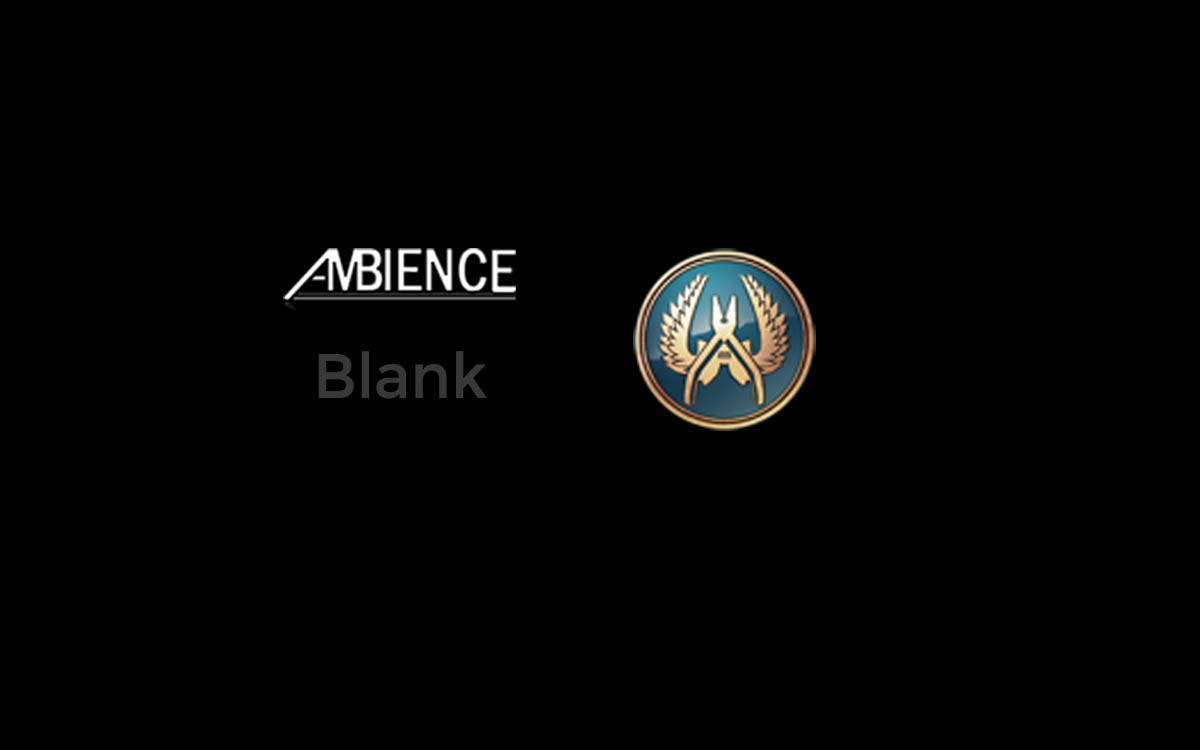
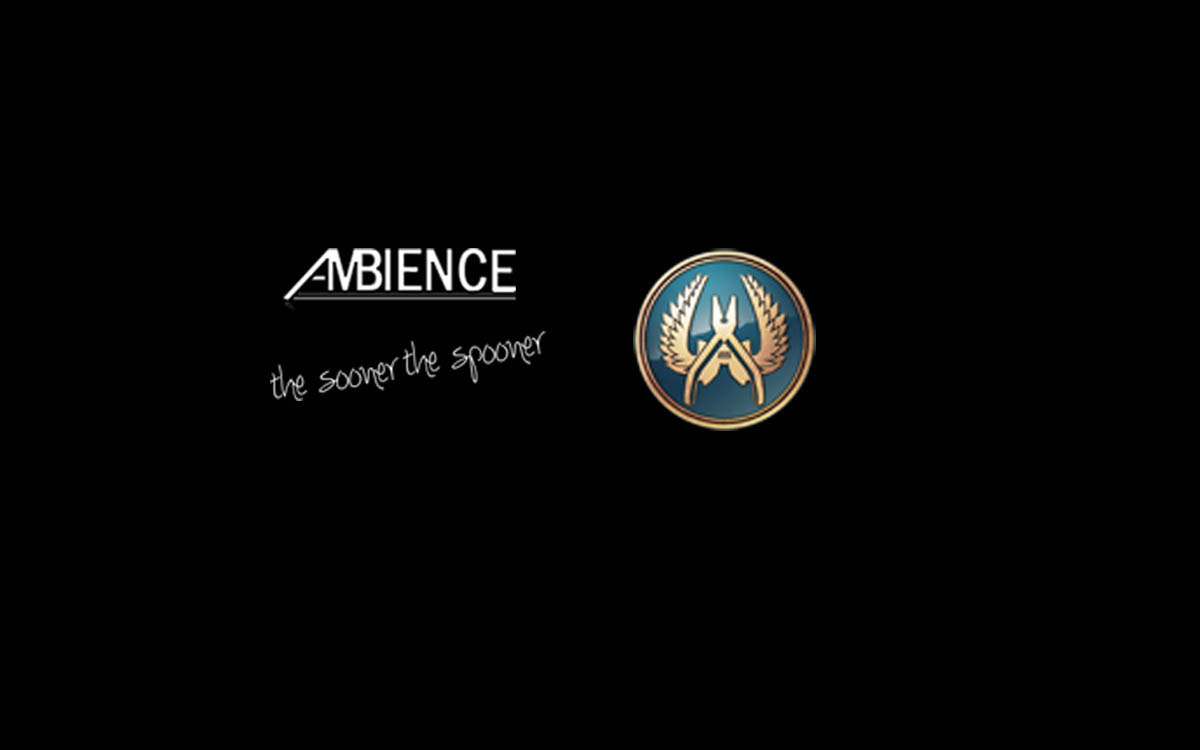
Last Player Added
The Spooner Added

Changed region(s): [[0.2158, 0.4293, 0.4625, 0.552]]

diff --git a/portfolio-Player5.html b/portfolio-Player5.html
@@ -92,7 +92,7 @@
 	    			<!-- Product Image & Available Colors -->
 	    			<div class="col-sm-6">
 	    				<div class="product-image-large">
-	    					<img src="img/portfolio/1.jpg" alt="Item Name">
+	    					<img src="img/portfolio/5.jpg" alt="Item Name">
 	    				</div>
 	    				<div class="colors">
 							<span class="color-white"></span>
@@ -105,13 +105,13 @@
 	    			<!-- End Product Image & Available Colors -->
 	    			<!-- Product Summary & Options -->
 	    			<div class="col-sm-6 product-details">
-	    			  <h2>Wizzkid</h2>
+	    			  <h2>The Sooner The Spooner</h2>
 	    			  <h3>Quick Overview</h3>
 	    			  <p>Waiting for info </p>
 	    			  <p>Wating for Info </p>
 	    			  <h3>Player Info</h3>
 	    			  <p><strong>Name: </strong></p>
-	    			  <p><strong>Steam Profile:&nbsp;N4S4_WizzKid </strong></p>
+	    			  <p><strong>Steam Profile:&nbsp;the sooner the spooner </strong></p>
 	    			  <p><strong>Favourite Weapon: </strong></p>
 	    			</div>
 	    			<!-- End Product Summary & Options -->
@@ -163,11 +163,11 @@
 				</div>
 				<div class="col-md-3 col-sm-6">
 					<figure>
-						<img src="img/portfolio/5.jpg" alt="img05">
+						<img src="img/portfolio/1.jpg" alt="img05">
 						<figcaption>
 							<h3>Player</h3>
 							<span>Blank</span>
-							<a href="portfolio-Player5.html">Take a look</a>
+							<a href="portfolio-Player3.html">Take a look</a>
 						</figcaption>
 					</figure>
 				</div>

diff --git a/index.html b/index.html
@@ -232,7 +232,7 @@
 						<figcaption>
 							<h3>Player</h3>
 							<span>Blank</span>
-							<a href="">Take a look</a>
+							<a href="portfolio-Player5.html">Take a look</a>
 						</figcaption>
 					</figure>
 				</div>

diff --git a/portfolio-Player1.html b/portfolio-Player1.html
@@ -167,7 +167,7 @@
 						<figcaption>
 							<h3>Player</h3>
 							<span>Blank</span>
-							<a href="">Take a look</a>
+							<a href="portfolio-Player5.html">Take a look</a>
 						</figcaption>
 					</figure>
 				</div>

diff --git a/portfolio-Player2.html b/portfolio-Player2.html
@@ -167,7 +167,7 @@
 						<figcaption>
 							<h3>Player</h3>
 							<span>Blank</span>
-							<a href="">Take a look</a>
+							<a href="portfolio-Player5.html">Take a look</a>
 						</figcaption>
 					</figure>
 				</div>

diff --git a/portfolio-Player4.html b/portfolio-Player4.html
@@ -167,7 +167,7 @@
 						<figcaption>
 							<h3>Player</h3>
 							<span>Blank</span>
-							<a href="">Take a look</a>
+							<a href="portfolio-Player5.html">Take a look</a>
 						</figcaption>
 					</figure>
 				</div>

diff --git a/portfolio-item.html b/portfolio-item.html
@@ -171,7 +171,7 @@
 						<figcaption>
 							<h3>Player</h3>
 							<span>Blank</span>
-							<a href="">Take a look</a>
+							<a href="portfolio-Player5.html">Take a look</a>
 						</figcaption>
 					</figure>
 				</div>

diff --git a/portfolio.html b/portfolio.html
@@ -139,7 +139,7 @@
 						<figcaption>
 							<h3>Player</h3>
 							<span>Blank</span>
-							<a href="">Take a look</a>
+							<a href="portfolio-Player5.html">Take a look</a>
 						</figcaption>
 					</figure>
 				</div>
